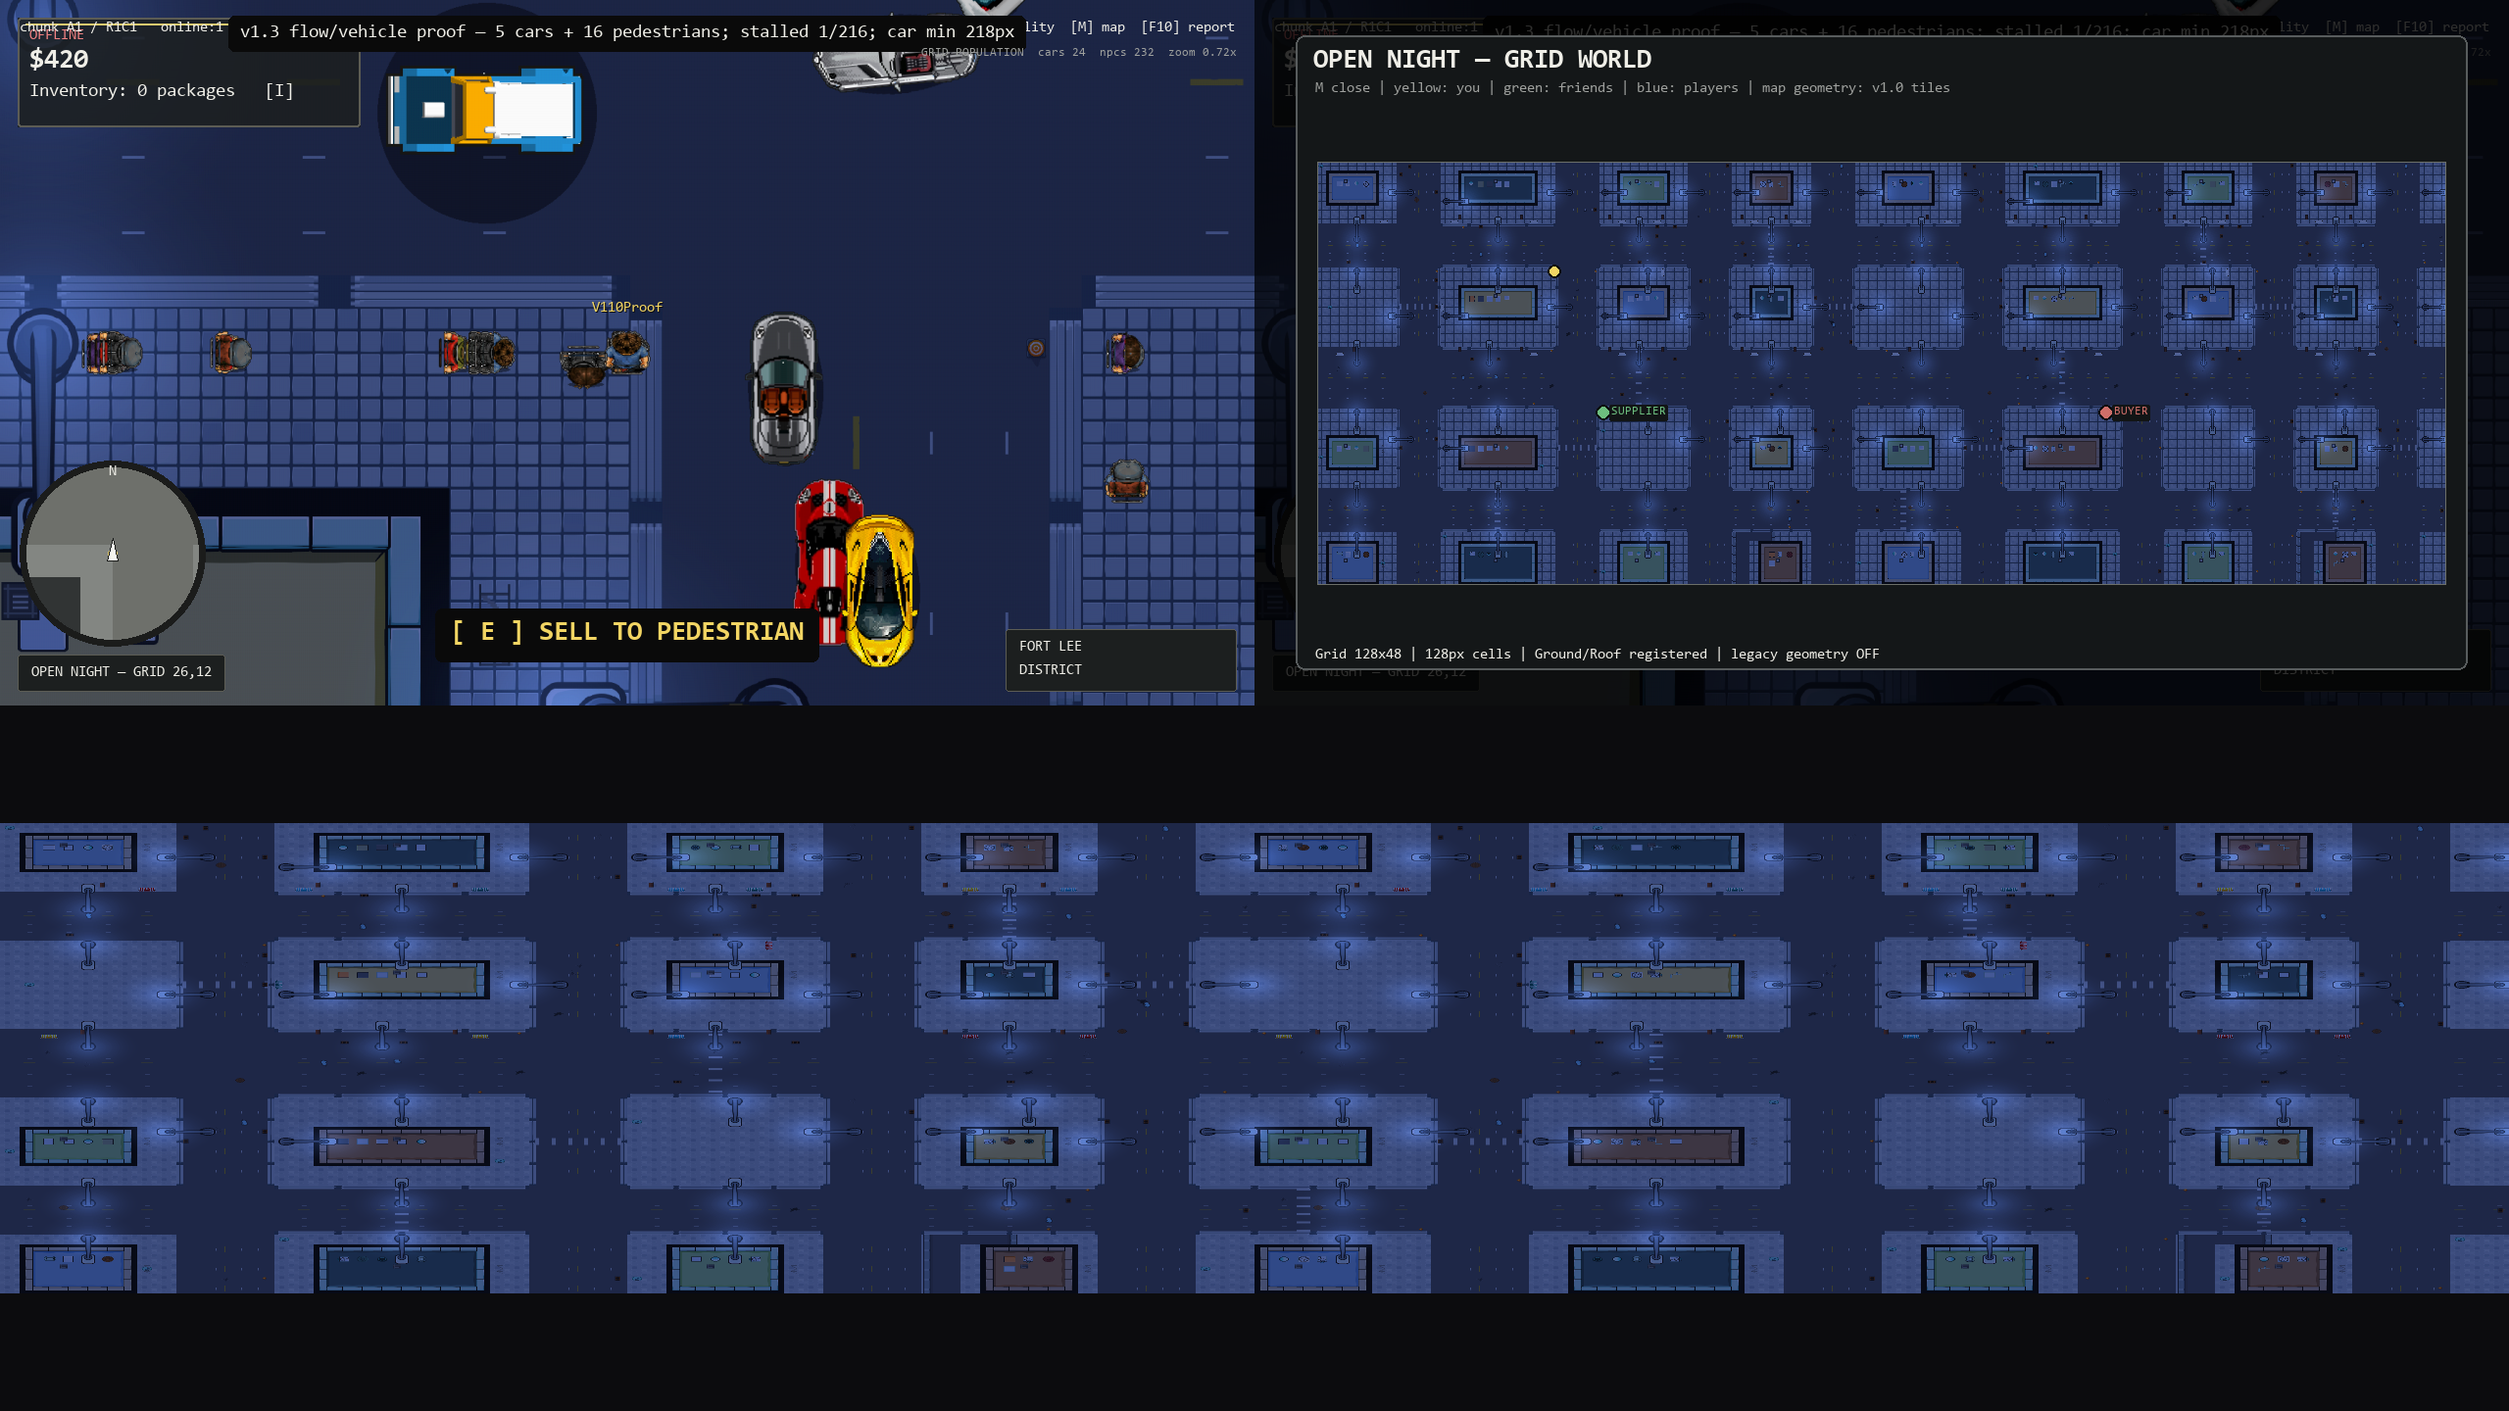
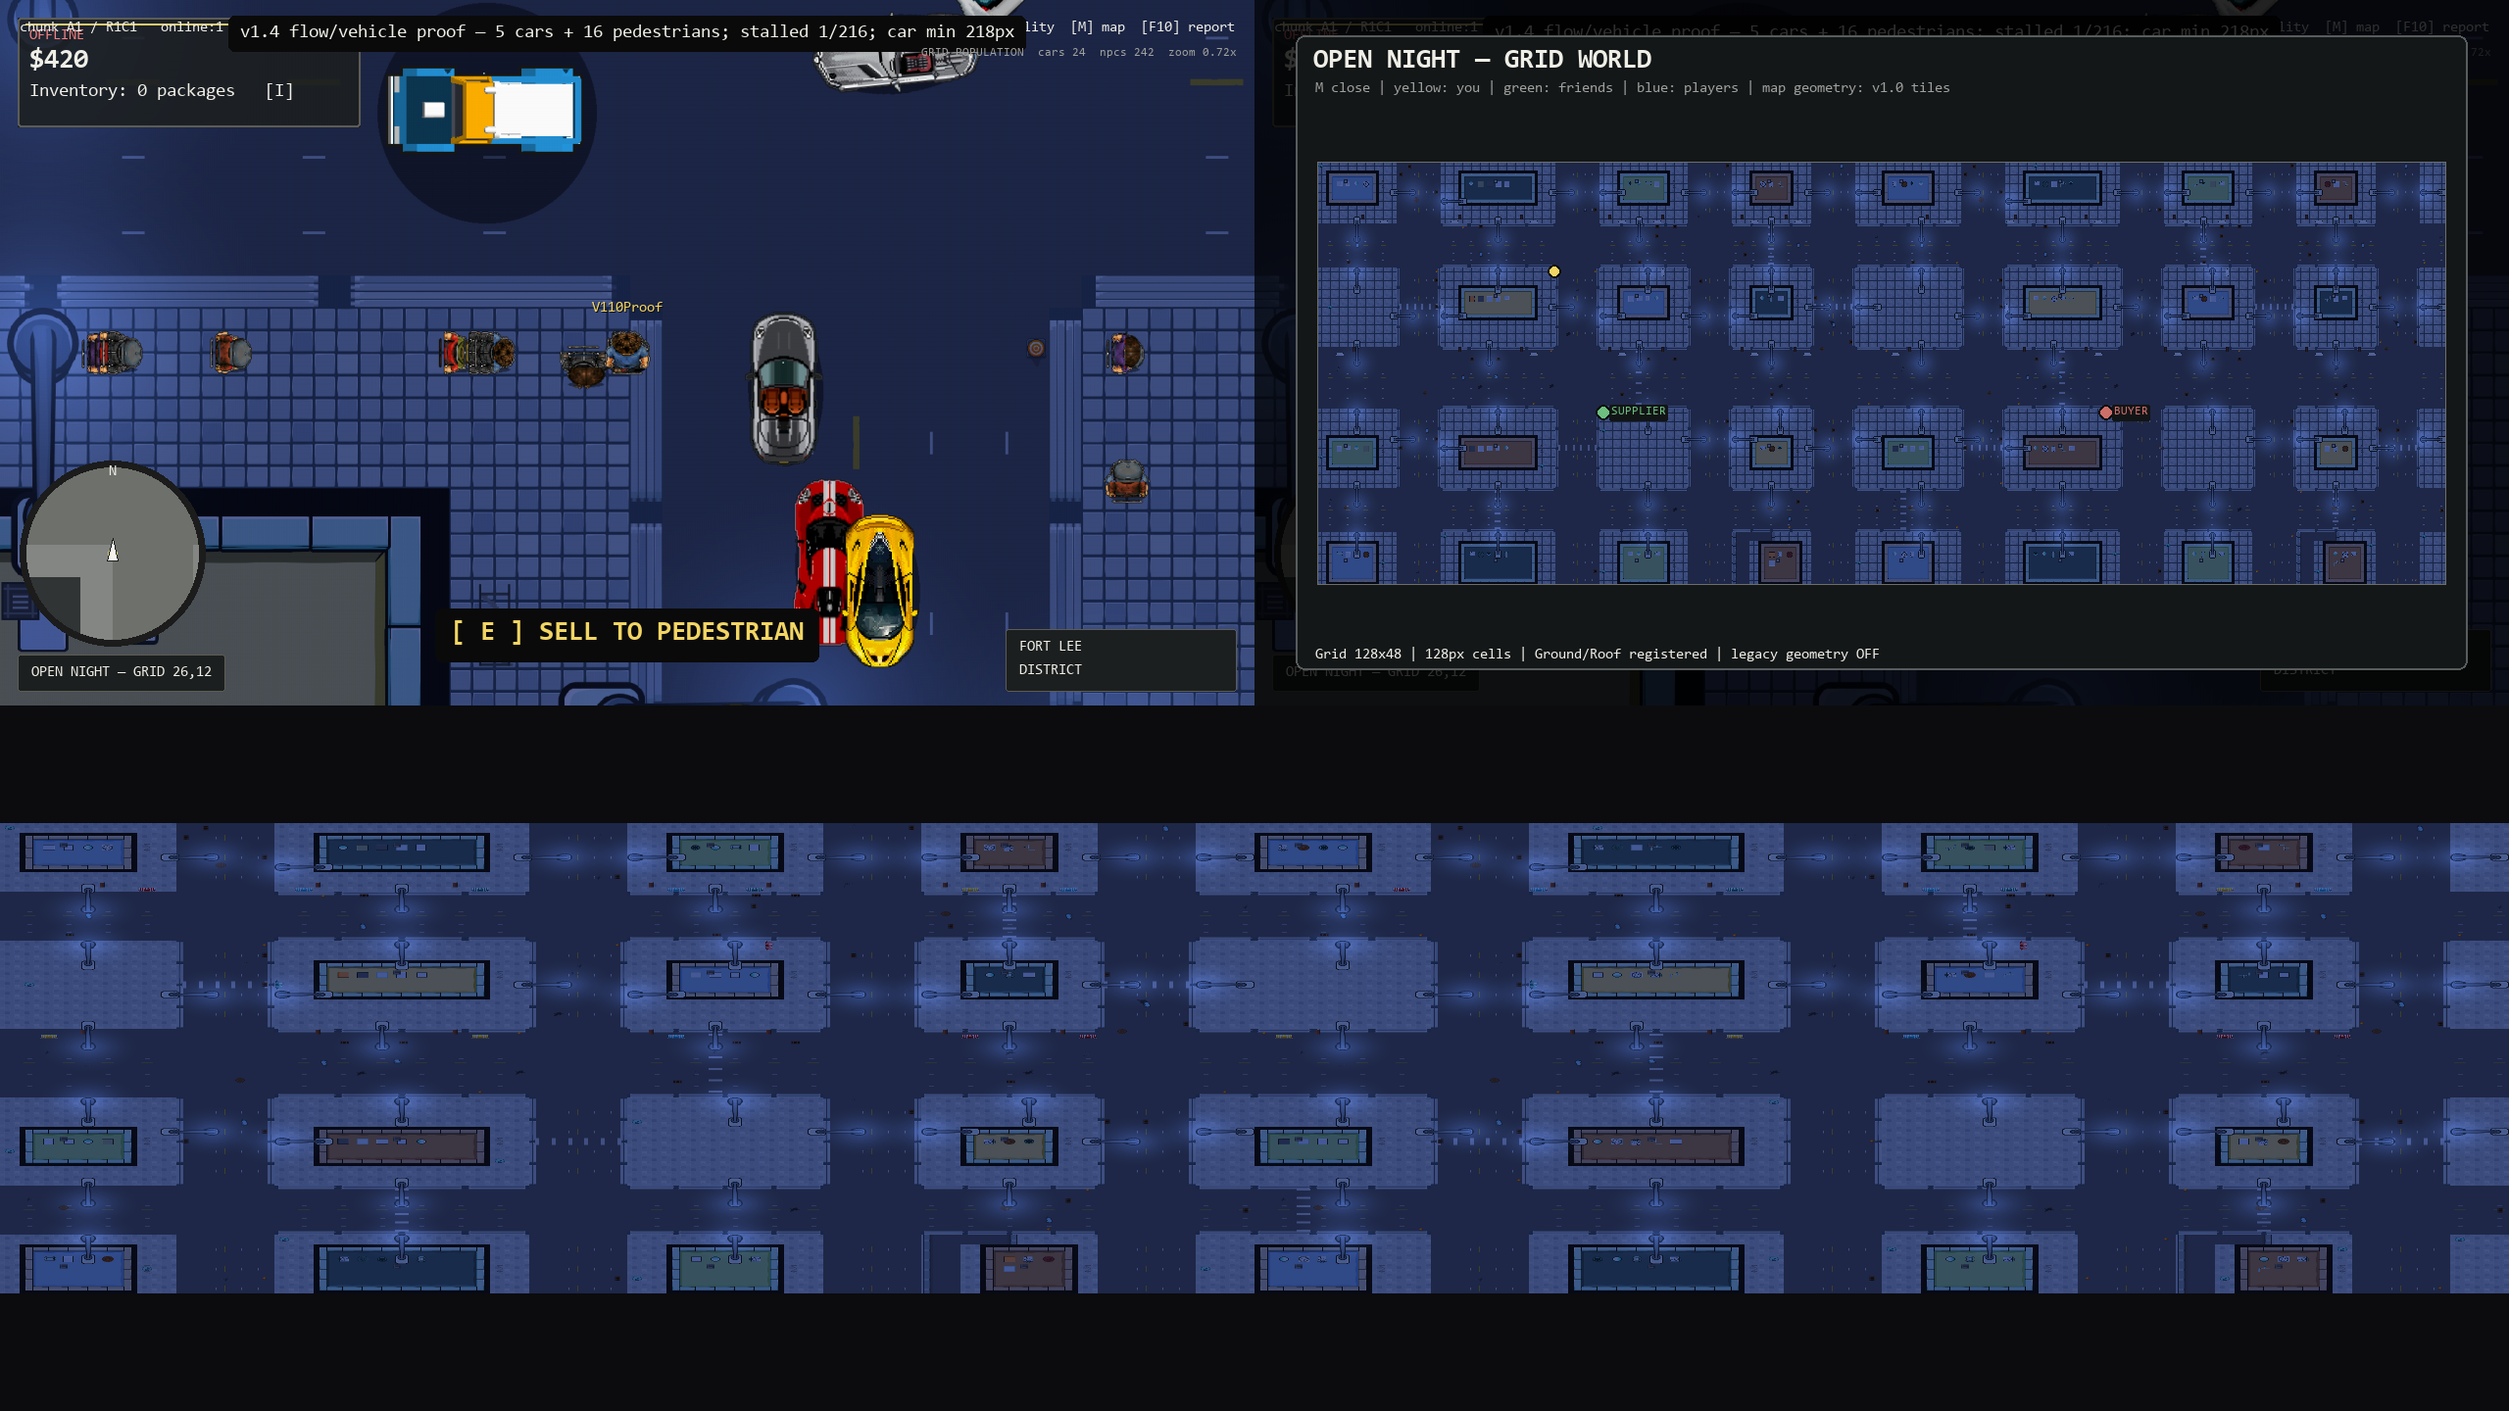
Release Open Night v1.4 lamp and job network fixes

diff --git a/v100_runtime_refinement.py b/v100_runtime_refinement.py
@@ -249,6 +249,25 @@ def _add_city_block_street_items(world, occupied_lamp_cells: set[tuple[int, int]
     return {"telephone_box_count": len(telephone_cells), "traffic_cone_count": len(cone_cells)}
 
 
+def _lamp_anchor_geometry(rotation: int, source_w: int, source_h: int) -> tuple[tuple[int, int], tuple[int, int]]:
+    """Return transformed (base, light-head) anchors for clockwise rotation."""
+    rotation = int(rotation) % 360
+    original_base = (source_w // 2, int(source_h * .90))
+    original_fixture = (source_w // 2, int(source_h * .10))
+    if rotation == 0:
+        return original_base, original_fixture
+    if rotation == 90:
+        return ((source_h - original_base[1], original_base[0]),
+                (source_h - original_fixture[1], original_fixture[0]))
+    if rotation == 180:
+        return ((source_w - original_base[0], source_h - original_base[1]),
+                (source_w - original_fixture[0], source_h - original_fixture[1]))
+    if rotation == 270:
+        return ((original_base[1], source_w - original_base[0]),
+                (original_fixture[1], source_w - original_fixture[0]))
+    raise ValueError(f"streetlamp rotation must be cardinal, got {rotation}")
+
+
 def apply_world_refinement(world):
     if getattr(world, "_v100_layout_refined", False):
         return world
@@ -459,14 +478,7 @@ def apply_world_refinement(world):
         rotation = {"north": 0, "east": 90, "south": 180, "west": 270}[road_direction]
         item["rotation"] = rotation
         source_w, source_h = 204, 768
-        if rotation == 0:
-            base, fixture = (source_w // 2, int(source_h * .90)), (source_w // 2, int(source_h * .10))
-        elif rotation == 90:
-            base, fixture = (int(source_h * .90), source_w // 2), (int(source_h * .10), source_w // 2)
-        elif rotation == 180:
-            base, fixture = (source_w // 2, int(source_h * .10)), (source_w // 2, int(source_h * .90))
-        else:
-            base, fixture = (int(source_h * .10), source_w // 2), (int(source_h * .90), source_w // 2)
+        base, fixture = _lamp_anchor_geometry(rotation, source_w, source_h)
         offset_x = world.cell_px // 2 - base[0]
         offset_y = world.cell_px // 2 - base[1]
         light_x, light_y = fixture
@@ -474,7 +486,7 @@ def apply_world_refinement(world):
         item["offset_y_px"] = offset_y
         item["width_px"] = source_w
         item["height_px"] = source_h
-        item["placement_policy"] = "road_edge_base_anchor_overhang_v13"
+        item["placement_policy"] = "road_edge_base_and_fixture_transform_v14"
         item["road_overhang_direction"] = road_direction
         occupied_lamp_cells.add((gx, gy))
         _install_city_block_street_item_defs(world)
@@ -485,7 +497,7 @@ def apply_world_refinement(world):
         item["light_radius_px"] = 720
         item["light_color_rgb"] = [92, 145, 255]
         item["light_intensity"] = 0.28
-        item["light_registration"] = "three_x_fixture_road_overhang_report57"
+        item["light_registration"] = "cardinal_transform_shared_anchors_report60"
         item["fixture_light_sync"] = "same_grid_object_record"
         lamp_count += 1
 

diff --git a/tools/audit_v110_version_authority.py b/tools/audit_v110_version_authority.py
@@ -15,7 +15,7 @@ from v110_server_launcher_patch import canonicalize_saved_config
 import v110_version_client
 
 
-EXPECTED = "1.3"
+EXPECTED = "1.4"
 
 
 def read(relative: str) -> str:
@@ -63,7 +63,7 @@ def exercise_client_version_gate() -> None:
 
 def main() -> None:
     require(GAME_VERSION == EXPECTED, f"wire version is {GAME_VERSION!r}, expected {EXPECTED!r}")
-    require(version_label() == "Open Night v1.3", version_label())
+    require(version_label() == "Open Night v1.4", version_label())
     require(read("VERSION.txt").strip() == EXPECTED,
             "VERSION.txt does not exactly match the canonical wire version")
 
@@ -98,8 +98,8 @@ def main() -> None:
     exercise_client_version_gate()
 
     railway = read("railway.toml")
-    require("PYMMO_PATCH_ID=open-night-v1.3" in railway,
-            "Railway patch id is not v1.3")
+    require("PYMMO_PATCH_ID=open-night-v1.4" in railway,
+            "Railway patch id is not v1.4")
     require("PYMMO_RESET_DB_ON_PATCH=false" in railway,
             "v1.1 Railway promotion would reset prototype persistence")
     railway_entry = read("railway_entry.py")
@@ -107,12 +107,12 @@ def main() -> None:
             "Railway bypasses the canonical GridWorld server")
 
     server_config = read("server_config.csv")
-    require("server_name,Open Night v1.3" in server_config,
-            "repo-local server default is not v1.3")
-    require("OPEN NIGHT v1.3" in read("RUN_CLIENT.bat"),
+    require("server_name,Open Night v1.4" in server_config,
+            "repo-local server default is not v1.4")
+    require("OPEN NIGHT v1.4" in read("RUN_CLIENT.bat"),
             "desktop client launcher label is stale")
     run_server = read("RUN_SERVER.bat")
-    require("OPEN NIGHT v1.3" in run_server,
+    require("OPEN NIGHT v1.4" in run_server,
             "local server launcher label is stale")
     require("v100_server.py" in run_server,
             "local server launcher bypasses canonical v1.1 server entry")
@@ -127,7 +127,7 @@ def main() -> None:
         "local_server_launcher": "RUN_SERVER.bat -> v100_server.py",
         "server_launcher_child_entry": "v100_server.py",
         "railway_entry": "railway_entry.py -> v100_server.py",
-        "railway_patch_id": "open-night-v1.3",
+        "railway_patch_id": "open-night-v1.4",
         "railway_preserves_persistence": True,
         "discovered_server_exact_version_gate": True,
         "discovered_server_visible_incompatibility_warning": True,

diff --git a/tools/audit_v120_player_reports.py b/tools/audit_v120_player_reports.py
@@ -38,8 +38,8 @@ def main() -> None:
     for key in v110_job_locations.JOB_KEYS:
         assert world.collision_at("ground", *config[key]) in {"walk", "sidewalk"}, f"{key} is still on the road"
     jobs = config.get("job_locations", [])
-    assert len(jobs) == 10 and sum(row["role"] == "supplier" for row in jobs) == 5
-    assert sum(row["role"] == "buyer" for row in jobs) == 5
+    assert len(jobs) == 20 and sum(row["role"] == "supplier" for row in jobs) == 10
+    assert sum(row["role"] == "buyer" for row in jobs) == 10
     assert all(row.get("authoritative_npc") for row in jobs)
     roof_decals = [row for row in world.objects if row.get("composition_pass") == "roof_palette_v1"]
     assert roof_decals and all(int(row.get("width_px", 0)) >= 64 and int(row.get("height_px", 0)) >= 64
@@ -51,9 +51,9 @@ def main() -> None:
     lamp_cells = {(int(row["gx"]), int(row["gy"])) for row in lamps}
     assert len(lamp_cells) == len(lamps), "streetlamps overlap after road expansion"
     assert all(world.collision_at("ground", *world.cell_center(int(row["gx"]), int(row["gy"]))) == "sidewalk"
-               and row.get("placement_policy") == "road_edge_base_anchor_overhang_v13"
+               and row.get("placement_policy") == "road_edge_base_and_fixture_transform_v14"
                and row.get("asset") == "street_item_lamp"
-               and row.get("light_registration") == "three_x_fixture_road_overhang_report57"
+               and row.get("light_registration") == "cardinal_transform_shared_anchors_report60"
                and row.get("road_overhang_direction") in {"north", "east", "south", "west"}
                and int(row.get("width_px", 0)) >= 102
                and int(row.get("height_px", 0)) >= 384

diff --git a/tools/audit_v130_art_consolidation.py b/tools/audit_v130_art_consolidation.py
@@ -38,6 +38,20 @@ def main() -> None:
     refinement = world.data["runtime_refinement"]
     assert refinement["road_art_authority"] == "grunge_neon_clean_junctions_v130"
     assert refinement["junction_clear_cell_count"] == len(junctions)
+    lamps = [row for row in world.objects if row.get("lighting_kind") == "sidewalk_lamp"]
+    expected_vectors = {
+        "north": (0, -1), "east": (1, 0), "south": (0, 1), "west": (-1, 0),
+    }
+    for lamp in lamps:
+        width, height = int(lamp["width_px"]), int(lamp["height_px"])
+        base, fixture = v100_runtime_refinement._lamp_anchor_geometry(int(lamp["rotation"]), width, height)
+        assert abs(int(lamp["offset_x_px"]) + base[0] - world.cell_px / 2) <= 1
+        assert abs(int(lamp["offset_y_px"]) + base[1] - world.cell_px / 2) <= 1
+        assert abs(int(lamp["light_offset_x_px"]) - fixture[0]) <= 1
+        assert abs(int(lamp["light_offset_y_px"]) - fixture[1]) <= 1
+        dx, dy = fixture[0] - base[0], fixture[1] - base[1]
+        wanted = expected_vectors[str(lamp["road_overhang_direction"])]
+        assert (0 if dx == 0 else dx // abs(dx), 0 if dy == 0 else dy // abs(dy)) == wanted
     print(f"V130_ART_CONSOLIDATION_OK junction_cells={len(junctions)} road_lines={len(road_lines)} aprons={len(aprons)}")
 
 

diff --git a/tools/audit_main_release.py b/tools/audit_main_release.py
@@ -31,8 +31,8 @@ def main() -> None:
 
     # The promoted main build keeps one exact wire version so stale clients
     # remain incompatible rather than silently connecting across protocol changes.
-    assert version_txt == "1.3", f"unexpected promoted wire version: {version_txt!r}"
-    assert 'GAME_VERSION = "1.3"' in versioning, "VERSION.txt/versioning.py authority diverged"
+    assert version_txt == "1.4", f"unexpected promoted wire version: {version_txt!r}"
+    assert 'GAME_VERSION = "1.4"' in versioning, "VERSION.txt/versioning.py authority diverged"
 
     # Every public launch surface must enter the same tested v1.1 adapters.
     assert "from v100_client import main" in client_entry, "web entry bypasses canonical client"
@@ -40,7 +40,7 @@ def main() -> None:
     assert "v100_client.py" in run_client, "desktop client bypasses canonical client"
     assert "v100_server.py" in run_server, "desktop server bypasses canonical server"
 
-    print("main release audit passed: main-only updater + canonical v1.3 runtime")
+    print("main release audit passed: main-only updater + canonical v1.4 runtime")
 
 
 if __name__ == "__main__":

diff --git a/v110_job_locations.py b/v110_job_locations.py
@@ -12,7 +12,7 @@ actual GridWorld dimensions and snap each destination to walkable Ground.
 from typing import Any
 
 JOB_KEYS = ("supplier_pos", "customer_pos")
-JOB_NPC_COUNT = 10
+JOB_NPC_COUNT = 20
 
 
 def _point(raw: Any) -> tuple[float, float] | None:
@@ -65,7 +65,7 @@ def normalize(map_config: dict, world, *, player_radius: float = 18.0) -> dict[s
 
     # A map this large needs a distributed job network, not two client-painted
     # icons. Seed the legacy supplier/buyer positions, then use deterministic
-    # farthest-point sampling to spread five of each role over real sidewalks.
+    # farthest-point sampling to spread ten pairs over real sidewalks.
     selected = [tuple(normalized["supplier_pos"]), tuple(normalized["customer_pos"])]
     candidates = sorted(sidewalk_cells, key=lambda point: (point[1], point[0]))
     while candidates and len(selected) < JOB_NPC_COUNT:

diff --git a/v100_client.py b/v100_client.py
@@ -1,6 +1,6 @@
 from __future__ import annotations
 
-"""Canonical Open Night v1.3 desktop/web client entry.
+"""Canonical Open Night v1.4 desktop/web client entry.
 
 The legacy client module remains the implementation library for mature gameplay
 features. v1.0 installed the curb-safe GridWorld refinement and shared 0.5x world

diff --git a/versioning.py b/versioning.py
@@ -1,6 +1,6 @@
 """Single source of truth for the multiplayer wire/build version."""
 
-GAME_VERSION = "1.3"
+GAME_VERSION = "1.4"
 
 
 def version_label() -> str:

diff --git a/ART_STYLE.md b/ART_STYLE.md
@@ -1,6 +1,6 @@
-# Art Direction — v1.3
+# Art Direction — v1.4
 
-The approved Fort Lee / GWB top-down scene remains the exterior visual target for v1.3. A deterministic grunge-neon director now enforces cool blue-violet night grading, warm road/sign accents, clean junctions, consistent road-edge furniture, and controlled pavement wear while preserving the source-pack art and authoritative collision grid.
+The approved Fort Lee / GWB top-down scene remains the exterior visual target for v1.4. A deterministic grunge-neon director enforces cool blue-violet night grading, warm road/sign accents, clean junctions, consistent road-edge furniture, and controlled pavement wear while preserving the source-pack art and authoritative collision grid. Streetlamp base, sprite, and light-head anchors now share one cardinal transform.
 
 ## Rendering rules
 

diff --git a/RELEASE_NOTES_v1.4.md b/RELEASE_NOTES_v1.4.md
@@ -1,0 +1,9 @@
+# Open Night v1.4
+
+This release addresses trusted player reports 60–61.
+
+- Streetlamp bases, rotated sprites, and light heads now use one tested cardinal-coordinate transform, keeping all three registered at every camera angle.
+- The job network now contains ten supplier/buyer pairs: ten stationary suppliers and ten stationary buyers distributed deterministically across safe sidewalks.
+- The v1.4 wire/version authority keeps older clients visibly incompatible until updated.
+
+Wire protocol and public release version: `1.4`.
